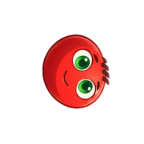
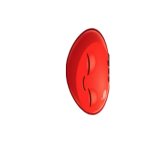
start wall-hit clips from compressed frame

Changed region(s): [[0.2778, 0.1944, 0.7778, 0.8056]]

diff --git a/tools/build_v12_atlas.py b/tools/build_v12_atlas.py
@@ -47,6 +47,11 @@ def main() -> int:
             if (name.startswith("flight_") or name == "high_jump") and index == 1:
                 copy_src = src_files[1]
                 phi[0] = phi[1]
+            elif "hit_side" in name and index <= 5:
+                # wall-hit clips start with an upright pose; use the compressed
+                # frame so Bumpy hits the wall instead of standing in the air
+                copy_src = src_files[5]
+                phi[index - 1] = phi[5]
             shutil.copyfile(copy_src, dst)
             rel = f"/main/bumpy_v12/frames/{name}/{src.name}"
             images.append(rel)
